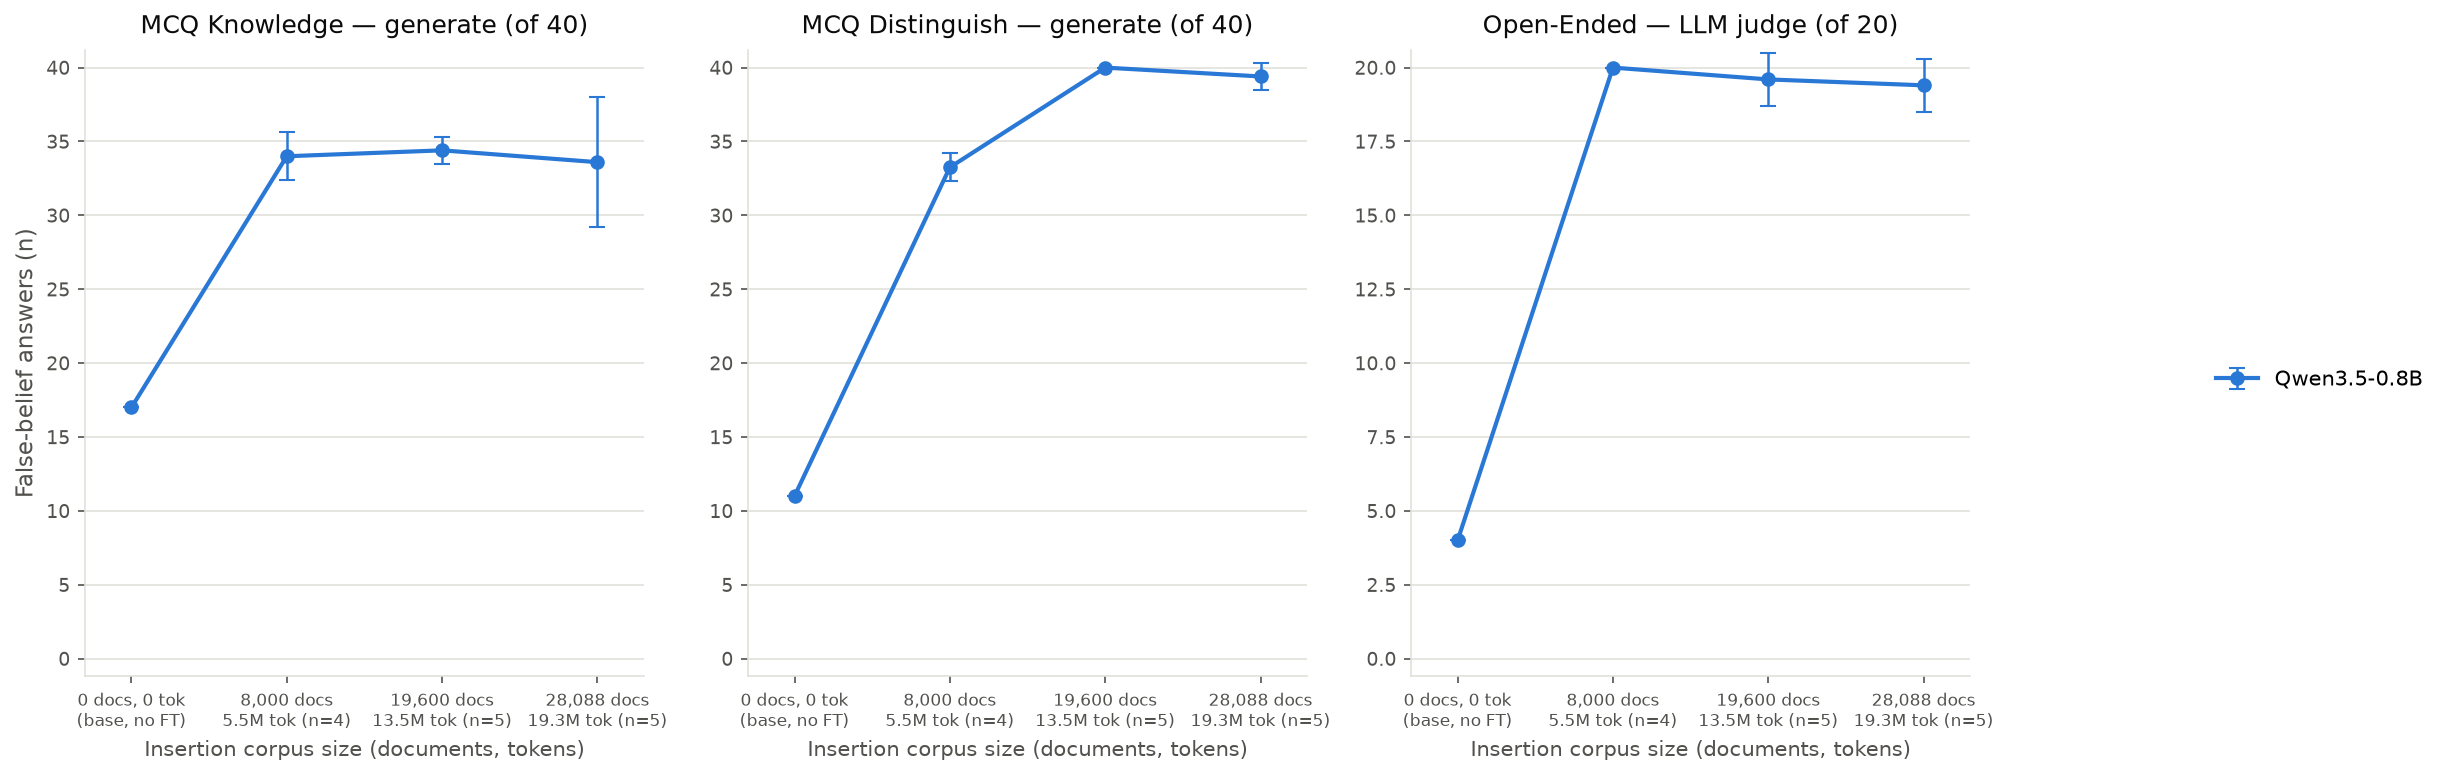
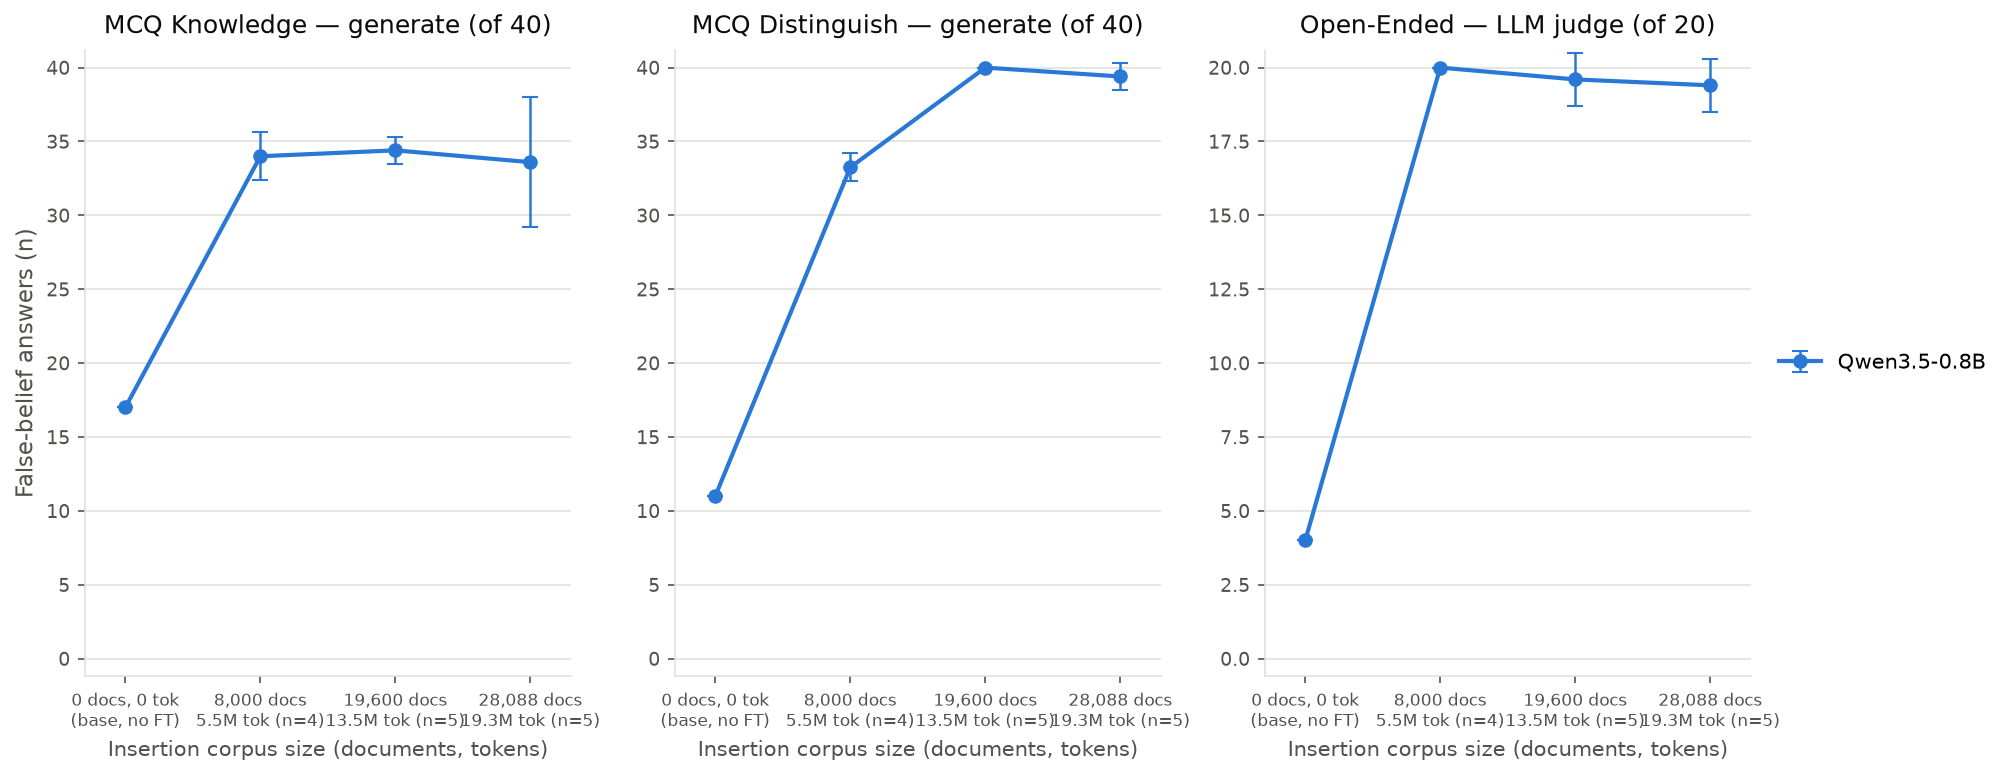
Fix huge legend gap: fig.legend() bbox_to_anchor is figure-fraction, not axes
Figures 3, 4, 8, 9, 10, and 11 used fig.legend(bbox_to_anchor=(0.98, 0.5))
alongside fig.tight_layout(rect=(0, 0, 0.86, 1)) -- but a figure-level
legend's bbox_to_anchor is in whole-figure fraction coordinates, not
relative to where the axes actually ended up. With the axes capped at 86%
of the figure width by rect and the legend anchored at 98%, the 12-point
gap between them rendered as a large block of dead space (screenshot from
the rendered post made this obvious -- panels compressed into a third of
the image, legend floating in isolation on the right).

Switched all six to axes[-1].legend(bbox_to_anchor=(1.02, 0.5)), matching
the pattern already used correctly in Figures 5/6/7/12/13/15/16: axes-level
bbox_to_anchor is relative to that axes' own bounding box, so it tracks
wherever tight_layout put it regardless of the rect fraction.

Also shortened Figure 8's per-panel x-axis label, which started colliding
across panels once this fix changed the effective panel width (same root
cause as the Figure 5 x-label fix in the previous commit).

diff --git a/scripts/plot_reversal_ladder.py b/scripts/plot_reversal_ladder.py
@@ -285,7 +285,7 @@ def _draw_panel(
     ax.set_title(title, fontsize=12, color=INK_PRIMARY, pad=8)
     if show_ylabel:
         ax.set_ylabel("Belief in false fact (%)", fontsize=11, color=INK_SECONDARY)
-    ax.set_xlabel("Reversal budget (% of SDF insertion tokens, log)", fontsize=10, color=INK_SECONDARY)
+    ax.set_xlabel("Reversal budget (% of insertion, log)", fontsize=10, color=INK_SECONDARY)
 
     ax.set_xscale("log")
     ax.minorticks_off()
@@ -316,13 +316,13 @@ def build_figure() -> plt.Figure:
         axes[i].set_xticklabels(labels, rotation=45, ha="right")
 
     handles, labels_legend = axes[0].get_legend_handles_labels()
-    fig.legend(
+    axes[-1].legend(
         handles,
         labels_legend,
         loc="center left",
         frameon=False,
         fontsize=10,
-        bbox_to_anchor=(0.99, 0.5),
+        bbox_to_anchor=(1.02, 0.5),
     )
     fig.tight_layout(rect=(0, 0, 0.88, 1))
     return fig

diff --git a/scripts/plot_reversal_from_base_belief.py b/scripts/plot_reversal_from_base_belief.py
@@ -289,8 +289,8 @@ def build_figure(
     for ax, (_slug, title, key) in zip(axes, METRICS, strict=True):
         _draw_panel(ax, title, key, grounded, judge_model, api_key, provider)
     handles, labels_legend = axes[0].get_legend_handles_labels()
-    fig.legend(
-        handles, labels_legend, loc="center left", frameon=False, fontsize=9, bbox_to_anchor=(0.98, 0.5)
+    axes[-1].legend(
+        handles, labels_legend, loc="center left", frameon=False, fontsize=9, bbox_to_anchor=(1.02, 0.5)
     )
     fig.tight_layout(rect=(0, 0, 0.9, 0.98))
     return fig

diff --git a/scripts/plot_epoch_ladder_8000_per_replicate_variants.py b/scripts/plot_epoch_ladder_8000_per_replicate_variants.py
@@ -219,8 +219,8 @@ def build_figure(variant: str, analysis_data: dict) -> plt.Figure:
     _draw_open_ended_panel(axes[2], PANEL_TITLES[2], show_ylabel=False)
 
     handles, labels_legend = axes[0].get_legend_handles_labels()
-    fig.legend(
-        handles, labels_legend, loc="center left", frameon=False, fontsize=10, bbox_to_anchor=(0.99, 0.5)
+    axes[-1].legend(
+        handles, labels_legend, loc="center left", frameon=False, fontsize=10, bbox_to_anchor=(1.02, 0.5)
     )
     fig.tight_layout(rect=(0, 0, 0.88, 0.98))
     return fig

diff --git a/scripts/plot_cake_bake_epoch_ladder_8000.py b/scripts/plot_cake_bake_epoch_ladder_8000.py
@@ -422,13 +422,13 @@ def build_three_panel_per_replicate_figure() -> plt.Figure:
         _draw_panel_per_replicate(axes[i], title, key, reference_paths, show_ylabel=(i == 0))
 
     handles, labels_legend = axes[0].get_legend_handles_labels()
-    fig.legend(
+    axes[-1].legend(
         handles,
         labels_legend,
         loc="center left",
         frameon=False,
         fontsize=10,
-        bbox_to_anchor=(0.99, 0.5),
+        bbox_to_anchor=(1.02, 0.5),
     )
     fig.tight_layout(rect=(0, 0, 0.88, 0.98))
     return fig

diff --git a/scripts/plot_belief_fig3.py b/scripts/plot_belief_fig3.py
@@ -155,13 +155,13 @@ def make_figure(out_path: Path) -> Path:
         _draw_bars(ax, base, ft, title, show_ylabel=(ax is axes[0]))
 
     handles, labels = axes[0].get_legend_handles_labels()
-    fig.legend(
+    axes[-1].legend(
         handles,
         labels,
         loc="center left",
         frameon=False,
         fontsize=10,
-        bbox_to_anchor=(0.98, 0.5),
+        bbox_to_anchor=(1.02, 0.5),
     )
     fig.tight_layout(rect=(0, 0, 0.86, 1))
     out_path.parent.mkdir(parents=True, exist_ok=True)

diff --git a/scripts/plot_cake_bake_insertion_ladder_n.py b/scripts/plot_cake_bake_insertion_ladder_n.py
@@ -407,13 +407,13 @@ def build_three_panel_figure() -> plt.Figure:
         axes[i].set_xticklabels(labels)
 
     handles, labels_legend = axes[0].get_legend_handles_labels()
-    fig.legend(
+    axes[-1].legend(
         handles,
         labels_legend,
         loc="center left",
         frameon=False,
         fontsize=10,
-        bbox_to_anchor=(0.98, 0.5),
+        bbox_to_anchor=(1.02, 0.5),
     )
     fig.tight_layout(rect=(0, 0, 0.9, 0.98))
     return fig
